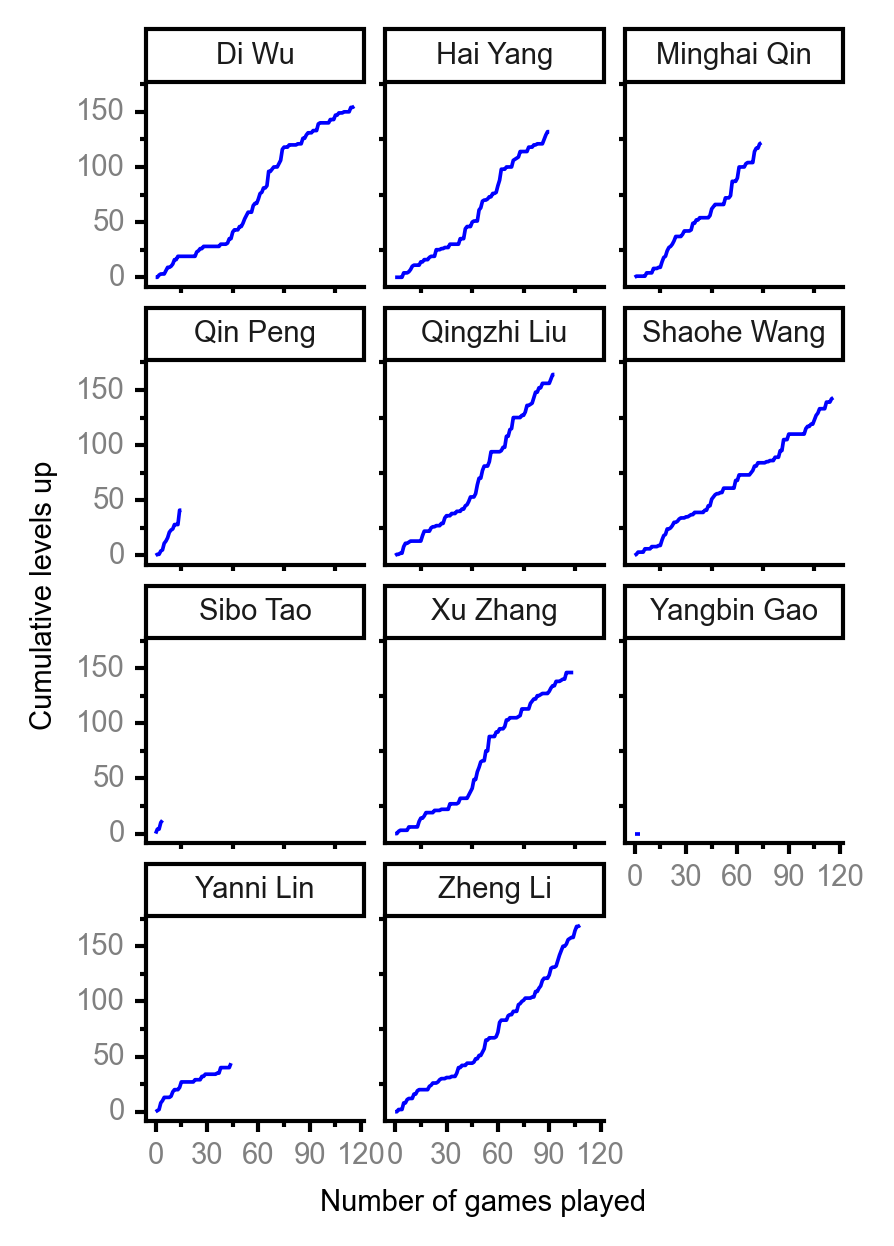
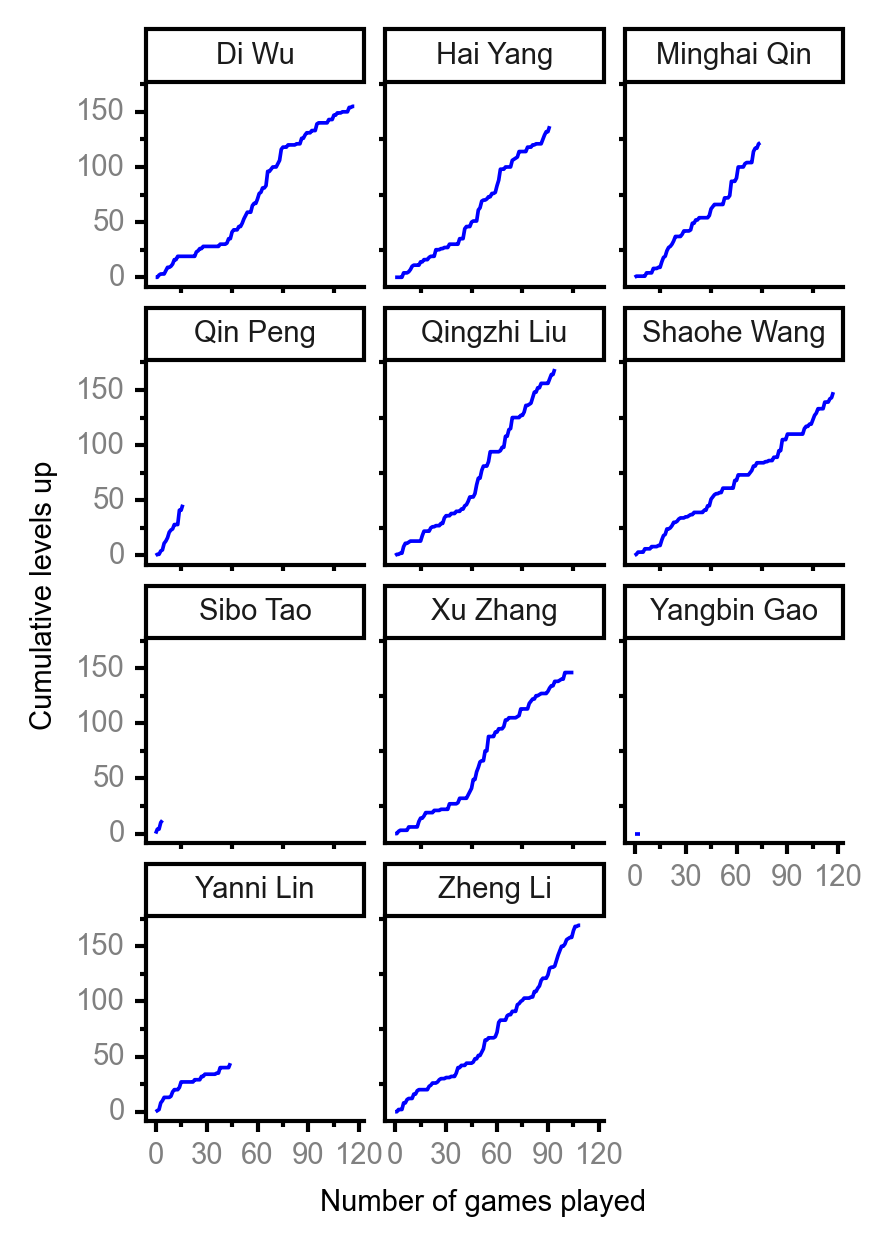
update player stats

diff --git a/player_stats.md b/player_stats.md
@@ -14,15 +14,15 @@ date: 2021-01-09
 
 | <br><br><br>Rank | <br><br><br>Player | <br> Lifetime <br> levels <br> up | <br><br> Winning <br> rate | <br> Average <br> levels <br> up | <br> Total <br> games <br> played | Games <br> played <br> as <br> MVP | Games <br> played <br> as <br> dealer | N_games <br> short <br> staffed <br> as dealer | Winning <br> rate <br> as <br> dealer |
 |:---:|:---:|:---:|:---:|:---:|:---:|:---:|:---:|:---:|:---:|
-| 1 | Zheng <br> Li | 169 | 59.6% | 2.60 | 109 | 4 | 18 | 0 | 61.1% |
-| 2 | Qingzhi <br> Liu | 169 | 54.3% | 3.31 | 94 | 2 | 14 | 3 | 50.0% |
-| 3 | Di <br> Wu | 155 | 44.4% | 2.98 | 117 | 4 | 18 | 0 | 38.9% |
-| 4 | Shaohe <br> Wang | 148 | 48.7% | 2.60 | 117 | 2 | 21 | 1 | 42.9% |
-| 5 | Xu <br> Zhang | 146 | 45.7% | 3.04 | 105 | 3 | 15 | 0 | 40.0% |
-| 6 | Hai <br> Yang | 137 | 48.4% | 3.11 | 91 | 5 | 14 | 1 | 42.9% |
+| 1 | Qingzhi <br> Liu | 170 | 54.7% | 3.27 | 95 | 3 | 14 | 3 | 50.0% |
+| 2 | Zheng <br> Li | 169 | 59.1% | 2.60 | 110 | 4 | 18 | 0 | 61.1% |
+| 3 | Di <br> Wu | 156 | 44.9% | 2.94 | 118 | 4 | 18 | 0 | 38.9% |
+| 4 | Shaohe <br> Wang | 148 | 48.3% | 2.60 | 118 | 2 | 21 | 1 | 42.9% |
+| 5 | Xu <br> Zhang | 146 | 45.3% | 3.04 | 106 | 3 | 15 | 0 | 40.0% |
+| 6 | Hai <br> Yang | 138 | 48.9% | 3.07 | 92 | 5 | 15 | 1 | 46.7% |
 | 7 | Minghai <br> Qin | 123 | 53.3% | 3.08 | 75 | 1 | 11 | 1 | 72.7% |
 | 8 | Yanni <br> Lin | 48 | 37.8% | 2.82 | 45 | 4 | 3 | 1 | 66.7% |
-| 9 | Qin <br> Peng | 46 | 81.2% | 3.54 | 16 | 1 | 2 | 0 | 100.0% |
+| 9 | Qin <br> Peng | 46 | 76.5% | 3.54 | 17 | 1 | 2 | 0 | 100.0% |
 | 10 | Sibo <br> Tao | 14 | 80.0% | 3.50 | 5 | 0 | 0 | 0 | 0.0% |
 | 11 | Yangbin <br> Gao | 0 | 0.0% | 0.00 | 4 | 0 | 0 | 0 | 0.0% |
 
